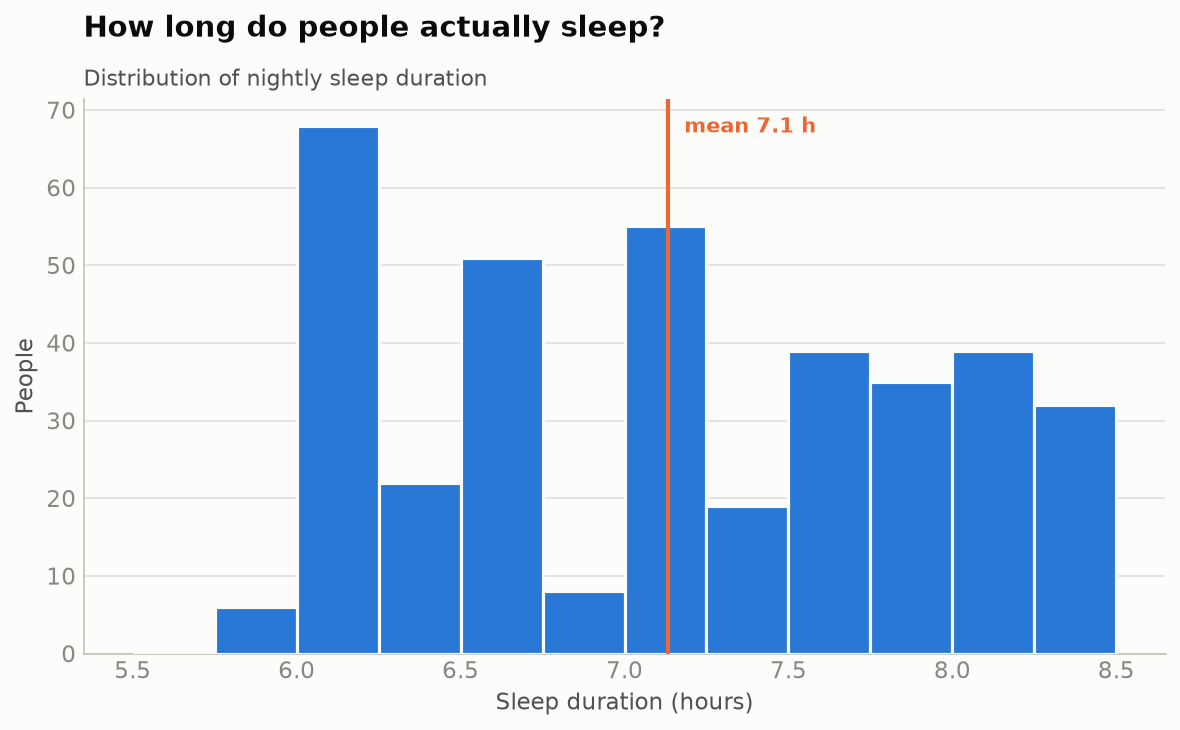
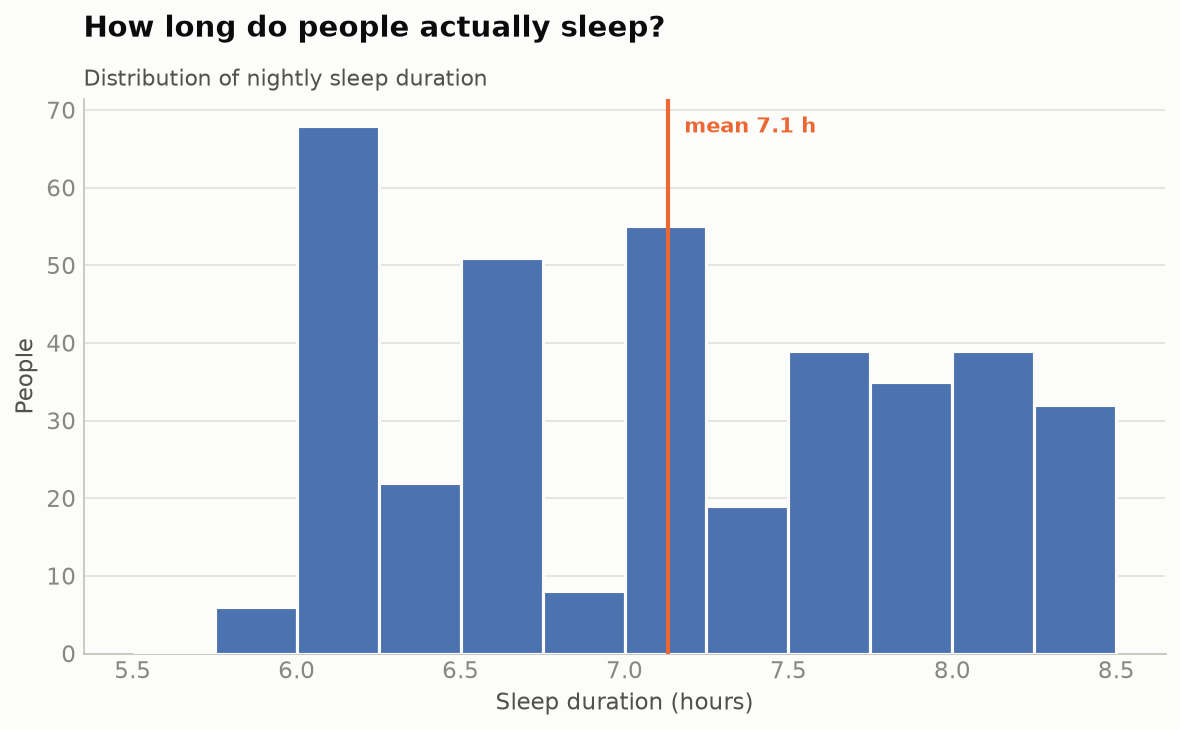
Restyle ranking chart: muted palette, blue title, bold winner label
- Emphasis colors set to #4C72B0 (base) and #DD8452 (highlight)
- Title tinted with the accent blue via new title_color arg on titled()
- Only the top-scoring occupation's y-axis label is bolded, tying its name
  to its highlighted bar; subtitle retained for the 1-10 scale context

Claude-Session: https://claude.ai/code/session_014MgEWMLn54NU3BgDgiQ9v1

Changed region(s): [[0.1831, 0.1507, 0.9458, 0.9041]]

diff --git a/src/vision_plot/theme.py b/src/vision_plot/theme.py
@@ -23,8 +23,8 @@ PALETTE = [
     "#e34948",  # 8 red
 ]
 
-ACCENT = PALETTE[0]     # single-series charts use one confident hue
-HIGHLIGHT = PALETTE[1]  # warm emphasis for the one mark that matters most
+ACCENT = "#4C72B0"     # single-series charts use one confident (muted) blue
+HIGHLIGHT = "#DD8452"  # warm emphasis for the one mark that matters most
 
 # Ink + chrome. Text always wears an ink token, never a series color.
 INK = {
@@ -75,10 +75,15 @@ def style_axes(ax, *, grid_axis: str | None = "x") -> None:
         ax.set_axisbelow(True)
 
 
-def titled(ax, title: str, subtitle: str | None = None) -> None:
-    """Left-aligned title with an optional secondary-ink subtitle."""
+def titled(ax, title: str, subtitle: str | None = None,
+           title_color: str | None = None) -> None:
+    """Left-aligned title with an optional secondary-ink subtitle.
+
+    ``title_color`` overrides the default ink for the title text — handy for
+    tying a chart's headline to its own accent color.
+    """
     ax.set_title(title, loc="left", fontsize=14, fontweight="bold",
-                 color=INK["primary"], pad=30 if subtitle else 10)
+                 color=title_color or INK["primary"], pad=30 if subtitle else 10)
     if subtitle:
         ax.text(0.0, 1.015, subtitle, transform=ax.transAxes,
                 fontsize=10.5, color=INK["secondary"], va="bottom")

diff --git a/src/vision_plot/charts.py b/src/vision_plot/charts.py
@@ -65,8 +65,12 @@ def quality_by_occupation(df: pd.DataFrame) -> plt.Figure:
     ax.set_xlim(0, 10)
     ax.set_xticks([])
     ax.spines["bottom"].set_visible(False)
+    # Bold only the winning occupation's label so its name reads as emphatically
+    # as its bar — the reader's eye ties the two together.
+    ax.get_yticklabels()[top].set_fontweight("bold")
     titled(ax, "Which jobs sleep best?",
-           "Mean quality-of-sleep score (1–10) by occupation")
+           "Mean quality-of-sleep score (1–10) by occupation",
+           title_color=ACCENT)
     fig.tight_layout()
     return fig
 
